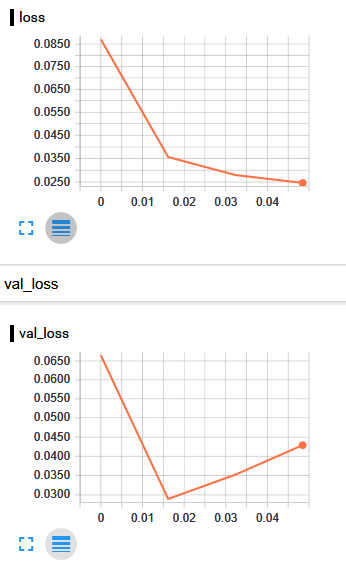
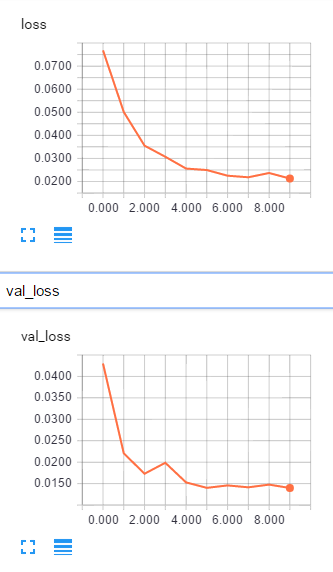
resubmit

diff --git a/README.md b/README.md
@@ -36,7 +36,7 @@ My project includes the following files:
 * drive.py for driving the car in autonomous mode
 * model_1.h5 containing a trained convolution neural network
 * model_1_weights.h5 the weights from the trained cnn
-* model_1.mp4 record of driving track1 2 rounds in autonomous mode
+* records/model_1.mp4 record of driving track1 2 rounds in autonomous mode on fastest display mode
 * prepare.py a class for reading and preprocessing images
 * visual.py a helper class for visualizing results
 * conv_visualization a class for generating activation images for layers
@@ -53,7 +53,7 @@ Using the Udacity provided simulator and my drive.py file, the car can be driven
 python drive.py models\model_1\model_1.h5 30
 ```
 
-The quality chosen was fastest in window mode on 1280x960 display size. Steering speed desired was set to 30.
+The quality used was fastest in window mode on 1280x960 display size. Steering speed desired was set to 30.
 
 ####3. Submission code is usable and readable
 
@@ -137,8 +137,7 @@ Doing so with the keyboard or gamecontroller failed badly as the steering angle 
 in the end the most important point of the whole project. Only using the mouse steering control on the beta simulator let me 
 drive the track in a way that i good continous steering result on lots of small degree steps
 
-Creating recovery images from off track on the road again was in my set not necessary for track one. Instead i cherry picked good steering angles for the weak spots
-and added them to the training data.
+Creating recovery images from off track on the road again was essential to keep the car on the road at the weak spots.
 
 To prevent biasing of bad angles like zero, ones or lots of the same steering angles sequentially i added a queue of
 8 which discards the same values after the eigth's same appearance. Also I set the threshold of zeroes to a maximum of the 
@@ -150,7 +149,7 @@ second highest other steering angle which lead to the following final steering h
 To augment the data set, i randomly flipped the images and measurements as well as shifted them vertically or taking left or right camera image instead
 of center images. when taking left or right camera images, the steering angle has been corrected by a value of 0.25 for right images and -0.25 for left images.
 
-Example of cropping the image from 160x320 to 66x200:
+Example of cropping the image from 160x320 to 100x320:
 
 ![Cropping][image4]
 
@@ -180,7 +179,7 @@ even on my gtx 1080. Also i resized the images to 100x320.
 I finally randomly shuffled the data set and put 0.2 of the data into a validation set. 
 
 I used this training data for training the model. The validation set helped determine if the model was over or under fitting. 
-The ideal number of epochs was 2 as evidenced by an introduced early stopping layer with patience 1. Each epoch was trained on 20480 samples.
+The ideal number of epochs was 9 as evidenced by an introduced early stopping layer with patience 3. Each epoch was trained on 4096 samples.
 
 I used an adam optimizer so that manually training the learning rate wasn't necessary.
 
@@ -189,4 +188,6 @@ The model is unfortunately so big that the tensorboard dashboard was not able to
 
 To get always the best checkpoint i added a checkpoint callback which always compared the current with the last run and saved the best out of it, as
 well as a checkpoint file in addition to the best fit.
+
+For the future i could add more recovery samples to be more robust on different hardware and display settings as well to stay more smooth on the road.
 
